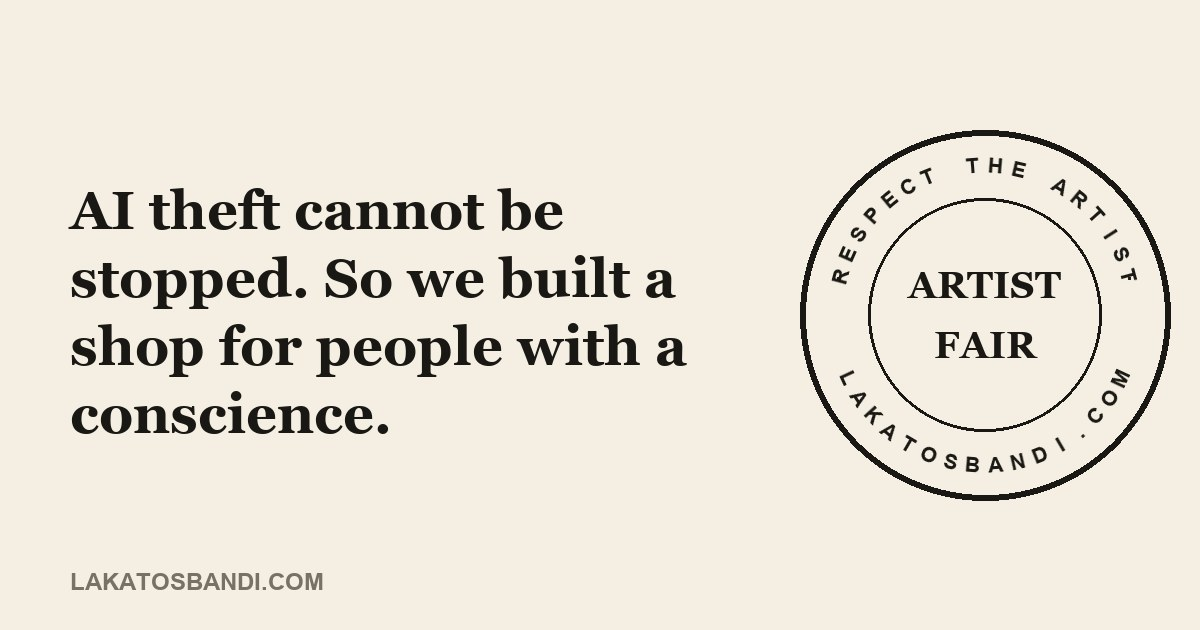
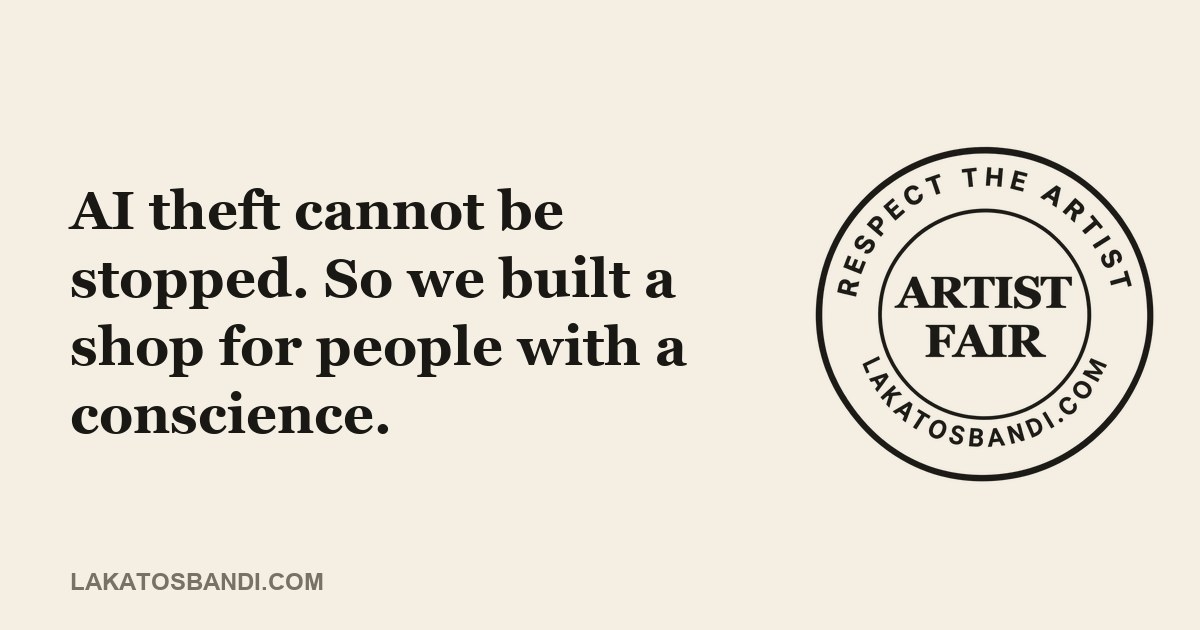
Der echte Stempel, Rumänisch als Rückfall, Preise ehrlich
- Das Siegel ist jetzt der Stempel des Owners (public/lakatosbandi/artist-fair-stempel.png,
  durchsichtig) statt meines gezeichneten SVGs — auch in der Facebook-Vorschau.
- Rückfallsprache im Portal ist Rumänisch statt Englisch; der Browser entscheidet weiterhin,
  wenn er EN/RO/DE spricht.
- „mit gedrucktem Rahmen" stimmt nicht mehr: echtes Holz. Und die Preisspanne beginnt wieder
  beim blanken Blatt (17 €) statt beim gerahmten (42 €).

Changed region(s): [[0.6475, 0.181, 0.9867, 0.8143]]

diff --git a/components/ArtistFair.tsx b/components/ArtistFair.tsx
@@ -2,46 +2,25 @@
  * DAS SIEGEL (Owner 18.09.2026: „Respect the Artist … als Siegel" · „ich will es aber als Marke
  * machen" · „alles was in unserem Shop gekauft wurde ist Artist Fair").
  *
- * ── WARUM GEZEICHNET UND NICHT ERZEUGT ──────────────────────────────────────────────────────
+ * ── ES IST SEIN STEMPEL, NICHT MEINER (18.09.2026: „ich habe dir den png abgelegt für den
+ * artistfairstamp in public/lakatosbandi. Den musst du einsetzen") ──────────────────────────
  *
- * Ein Siegel muss auf einem Knopf von 60 px genauso stehen wie auf einem A1-Druck und in einer
- * PDF. Ein erzeugtes Bild wäre in beiden Fällen falsch: oben matschig, unten zu klein. Als SVG
- * ist es an jeder Stelle scharf, wiegt nichts und lässt sich in einer Zeile ändern.
+ * Hier stand ein gezeichnetes SVG als Platzhalter. Jetzt liegt der echte Stempel als Bild vor —
+ * gesetzt, gesperrt und gekerbt, wie er ihn haben will. Das Weiss ist herausgenommen
+ * (`artist-fair-stempel.png`, durchsichtig), damit er auf dem cremefarbenen Blatt sitzt und
+ * nicht in einem weissen Kasten.
  *
- * Aufbau wie ein Prüfstempel: aussen im Ring die Haltung und die Adresse, in der Mitte der Name
- * der Marke. Kein Gold, keine Farbe — das Portal ist schwarz auf Creme, „die einzige Farbe sind
- * die Werke".
+ * Die Grösse bestimmt entweder `groesse` in Pixeln oder — bei `groesse={0}` — der Rahmen darum
+ * (im Poster in `cqw`, damit er mit dem Blatt wächst).
  */
 export default function ArtistFair({ groesse = 96, klasse = "" }: {
   groesse?: number;
   klasse?: string;
 }) {
   return (
-    /* `groesse={0}`: dann bestimmt der Rahmen darum die Grösse (im Poster in `cqw`). */
-    <svg viewBox="0 0 100 100" {...(groesse ? { width: groesse, height: groesse } : {})} className={klasse}
-      role="img" aria-label="Artist Fair — Respect the Artist">
-      <defs>
-        {/* ── ZWEI BÖGEN, NICHT EIN KREIS (18.09.2026) ──────────────────────────────────────
-            Auf einem durchgehenden Kreis steht die untere Hälfte der Schrift auf dem Kopf — ein
-            Stempel, den man drehen muss, sieht kaputt aus. Oben läuft der Bogen im Uhrzeigersinn,
-            unten GEGEN den Uhrzeigersinn: dann steht auch die untere Zeile richtig herum. */}
-        <path id="af-oben" fill="none" d="M12,50 A38,38 0 0 1 88,50" />
-        <path id="af-unten" fill="none" d="M14,50 A36,36 0 0 0 86,50" />
-      </defs>
-      <circle cx="50" cy="50" r="48" fill="none" stroke="currentColor" strokeWidth="1.6" />
-      <circle cx="50" cy="50" r="30" fill="none" stroke="currentColor" strokeWidth="0.8" />
-      <text fill="currentColor" fontSize="7.2" fontWeight="700" letterSpacing="1.4"
-        style={{ fontFamily: "ui-sans-serif, system-ui, sans-serif" }}>
-        <textPath href="#af-oben" startOffset="50%" textAnchor="middle">RESPECT THE ARTIST</textPath>
-      </text>
-      <text fill="currentColor" fontSize="6.4" fontWeight="700" letterSpacing="1.2"
-        style={{ fontFamily: "ui-sans-serif, system-ui, sans-serif" }}>
-        <textPath href="#af-unten" startOffset="50%" textAnchor="middle">LAKATOSBANDI.COM</textPath>
-      </text>
-      <text x="50" y="47" textAnchor="middle" fill="currentColor" fontSize="12.5" fontWeight="700"
-        style={{ fontFamily: "ui-serif, Georgia, serif" }}>ARTIST</text>
-      <text x="50" y="61" textAnchor="middle" fill="currentColor" fontSize="12.5" fontWeight="700"
-        style={{ fontFamily: "ui-serif, Georgia, serif" }}>FAIR</text>
-    </svg>
+    // eslint-disable-next-line @next/next/no-img-element
+    <img src="/lakatosbandi/artist-fair-stempel.png" alt="Artist Fair — Respect the Artist"
+      {...(groesse ? { width: groesse, height: groesse } : {})}
+      className={klasse} loading="lazy" decoding="async" />
   );
 }

diff --git a/lib/lakatosbandi-texte.ts b/lib/lakatosbandi-texte.ts
@@ -356,7 +356,7 @@ const TEXTE = {
        Er beschrieb den Code und verschwieg, dass es eine Ware ist. Wer davorsteht, will wissen:
        kann ich das haben, in welcher Grösse, was kostet es, kommt es zu mir. Der Preis kommt aus
        der Drucktabelle ({von}) — nie abgeschrieben (Skill `bezahlung`, Regel 2). */
-    tabTextRepro: "A printed poster — until you scan it. Then your phone plays the music and tells you the story of the work. A3, A2, A1, with a printed frame or without. From {von}.",
+    tabTextRepro: "A printed poster — until you scan it. Then your phone plays the music and tells you the story of the work. A3, A2, A1, in a real wooden frame or without. From {von}.",
     /* „Weiter" auf der Startseite (Owner 16.09.2026: „ein auszug aus jeder kategorie mit weiter"). */
     alleAnsehen: "See all",
     /* Der Knopf unter den Postern, wenn es mehr gibt als vier (Owner 16.09.2026: „4 werke zeigen
@@ -611,7 +611,7 @@ const TEXTE = {
     tabKuenstler: "Artiști",
     tabTextKuenstler: "Artiștii de pe lakatosbandi.com. Fiecare lucrare vine cu fraza care spune ce o face rară.",
     tabTextWerke: "Lucrări originale de la artiști contemporani — câte una singură, direct de la cel care a făcut-o.",
-    tabTextRepro: "Un poster tipărit — până îl scanezi. Atunci telefonul pornește muzica și îți spune povestea lucrării. A3, A2, A1, cu ramă printată sau fără. De la {von}.",
+    tabTextRepro: "Un poster tipărit — până îl scanezi. Atunci telefonul pornește muzica și îți spune povestea lucrării. A3, A2, A1, cu ramă adevărată de lemn sau fără. De la {von}.",
     alleAnsehen: "Vezi tot",
     mehrWerke: "Vezi toate cele {n} lucrări",
     mehrLesen: "Citește mai mult",
@@ -836,7 +836,7 @@ const TEXTE = {
     tabKuenstler: "Künstler",
     tabTextKuenstler: "Die Künstler auf lakatosbandi.com. Zu jedem Werk steht der Satz, der sagt, was es selten macht.",
     tabTextWerke: "Originale von zeitgenössischen Künstlern — jedes nur einmal, direkt von dem, der es gemacht hat.",
-    tabTextRepro: "Ein gedrucktes Poster — bis du es scannst. Dann spielt das Telefon die Musik und erzählt dir die Geschichte des Werks. A3, A2, A1, mit gedrucktem Rahmen oder ohne. Ab {von}.",
+    tabTextRepro: "Ein gedrucktes Poster — bis du es scannst. Dann spielt das Telefon die Musik und erzählt dir die Geschichte des Werks. A3, A2, A1, im echten Holzrahmen oder ohne. Ab {von}.",
     alleAnsehen: "Alle ansehen",
     mehrWerke: "Alle {n} Werke ansehen",
     mehrLesen: "Mehr lesen",

diff --git a/lib/lakatosbandi-druck.ts b/lib/lakatosbandi-druck.ts
@@ -221,9 +221,13 @@ export function druckPreisCents(material: string, groesse: string, kuenstlerAnte
  * Spanne mit. Textil zählt nicht mit — das sind eigene Kacheln mit festem Preis.
  */
 export function druckSpanneCents(kuenstlerAnteil = false): { von: number; bis: number } {
-  /* Die Spanne auf der Kachel: vom kleinsten Poster ohne Rahmen bis zum grössten mit. */
+  /* ── VON UNGERAHMT BIS GERAHMT (18.09.2026) ────────────────────────────────────────────
+     Seit die Rahmen aus echtem Holz sind, beginnt die Spanne beim blanken Blatt: „ab 42 €"
+     stand auf der Startseite, obwohl ein A3 ohne Rahmen 17 € kostet — das ist der Preis, mit
+     dem man wirbt. Oben endet sie beim grössten gerahmten Blatt. */
   const dazu = kuenstlerAnteil ? DRUCK_KUENSTLER_CENTS : 0;
   const werte = [
+    ...druckGroessenFuer("poster").map(g => PREISE.poster[g] + dazu),
     ...druckGroessenFuer("posterrama").map(g => PREISE.posterrama[g] + dazu),
     ...druckGroessenFuer("posterramaneagra").map(g => PREISE.posterramaneagra[g] + dazu),
   ];

diff --git a/app/portal/page.tsx b/app/portal/page.tsx
@@ -73,7 +73,7 @@ export const metadata: Metadata = {
 
 export default async function PortalStart({ searchParams }: { searchParams: Promise<Record<string, string | undefined>> }) {
   const sp = await searchParams;
-  const L = portalSprache(sp.lang, await resolveLang("en"));
+  const L = portalSprache(sp.lang, await resolveLang("ro"));
   const T = portalTexte(L);
   const P = portalPfade((await headers()).get("host"));
   const kuenstler = await kuenstlerListe(imPortalSichtbar);

diff --git a/app/portal/preise/page.tsx b/app/portal/preise/page.tsx
@@ -33,7 +33,7 @@ export const metadata: Metadata = {
 };
 
 export default async function PortalPreise({ searchParams }: { searchParams: Promise<Record<string, string | undefined>> }) {
-  const L = portalSprache((await searchParams).lang, await resolveLang("en"));
+  const L = portalSprache((await searchParams).lang, await resolveLang("ro"));
   const T = portalTexte(L);
   const P = portalPfade((await headers()).get("host"));
   const S = preiseTexte(L);

diff --git a/app/portal/login/page.tsx b/app/portal/login/page.tsx
@@ -25,7 +25,7 @@ export const metadata: Metadata = {
 
 export default async function PortalLoginSeite({ searchParams }: { searchParams: Promise<Record<string, string | undefined>> }) {
   const sp = await searchParams;
-  const L = portalSprache(sp.lang, await resolveLang("en"));
+  const L = portalSprache(sp.lang, await resolveLang("ro"));
   const T = portalTexte(L);
   const P = portalPfade((await headers()).get("host"));
   return (

diff --git a/app/portal/journal/page.tsx b/app/portal/journal/page.tsx
@@ -8,7 +8,7 @@ import { portalPfade } from "@/lib/lakatosbandi-adressen";
 export const dynamic = "force-dynamic";
 
 export default async function JournalWeiche() {
-  const erkannt = await resolveLang("en");
+  const erkannt = await resolveLang("ro");
   const L: JournalSprache = (JOURNAL_SPRACHEN as string[]).includes(erkannt) ? (erkannt as JournalSprache) : "en";
   redirect(portalPfade((await headers()).get("host")).journal(L));
 }

diff --git a/next-env.d.ts b/next-env.d.ts
@@ -1,6 +1,6 @@
 /// <reference types="next" />
 /// <reference types="next/image-types/global" />
-/// <reference path="./.next-claude/types/routes.d.ts" />
+/// <reference path="./.next/types/routes.d.ts" />
 
 // NOTE: This file should not be edited
 // see https://nextjs.org/docs/app/api-reference/config/typescript for more information.
